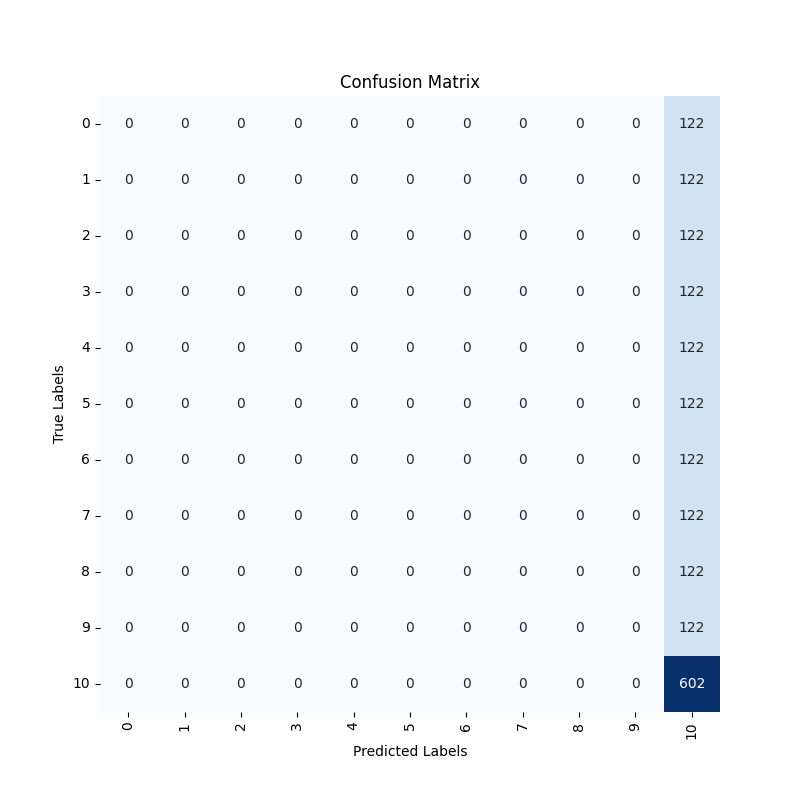
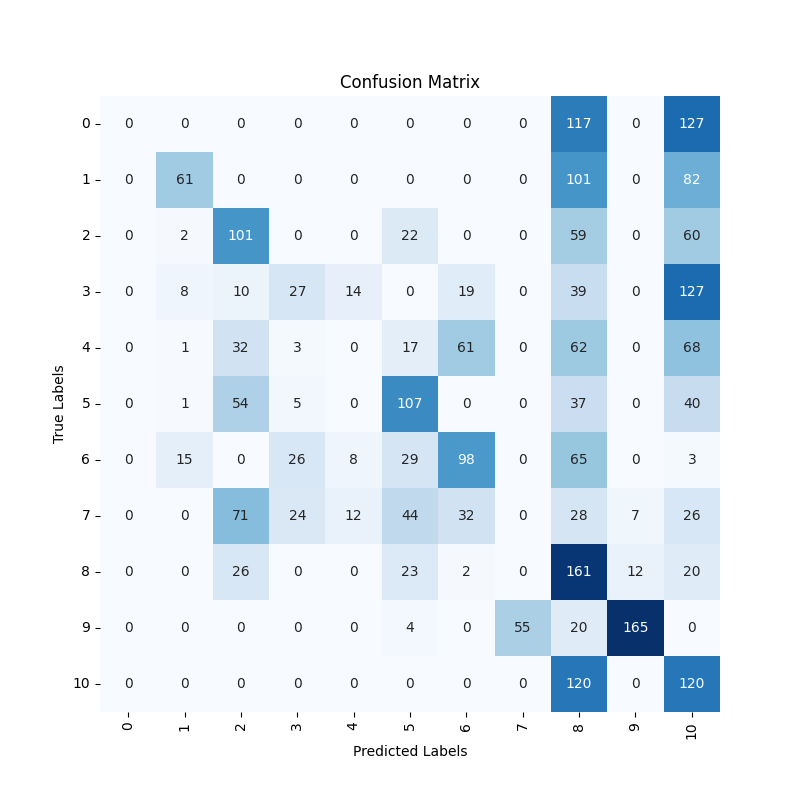
franka classification

diff --git a/scripts/network.py b/scripts/network.py
@@ -16,13 +16,22 @@ class JointNetwork(nn.Module):
         if classify:
             self.network = nn.Sequential(
                 nn.Flatten(),
-                nn.Linear(input_dim, 64),
+                nn.Linear(input_dim, 128),
+                nn.ReLU(), 
+                # nn.BatchNorm1d(64),
+
+                nn.Linear(128, 256),
                 nn.ReLU(),
-                nn.Linear(64, 128),
+                nn.Dropout(0.3),
+                nn.BatchNorm1d(256),
+
+                nn.Linear(256, 256),
                 nn.ReLU(),
-                nn.Linear(128, 128),
-                nn.ReLU(),
-                nn.Linear(128, output_dim),
+                nn.Dropout(0.3),
+                nn.BatchNorm1d(256),
+
+
+                nn.Linear(256, output_dim),
                 nn.Softmax(dim=1)
             )
         else:
@@ -78,8 +87,8 @@ class LitRobot(L.LightningModule):
         self.robot_type = robot_type
         # self.device = device   
 
-        self.classify = classify
-        self.learning_rate = 9e-4
+        self.classify = classifytrain 
+        self.learning_rate = 2e-3
 
         markers_pos = np.loadtxt(markers_path, delimiter=',')
         self.marker_positions = {f"{i}": pos for i, pos in enumerate(markers_pos)}

diff --git a/scripts/train.py b/scripts/train.py
@@ -21,7 +21,7 @@ def main(num_classes, markers_path, classify, seq, robot_type):
     else:
         tb_logger = TensorBoardLogger(f"../gouger_logs/{robot_type}", name = "regression")
 
-    data_module = SpotDataModule(classify, seq, robot_type = robot_type, batch_size=32)
+    data_module = SpotDataModule(classify, seq, robot_type = robot_type, batch_size=64)
     if classify:
         output_dim = num_classes
     else:
